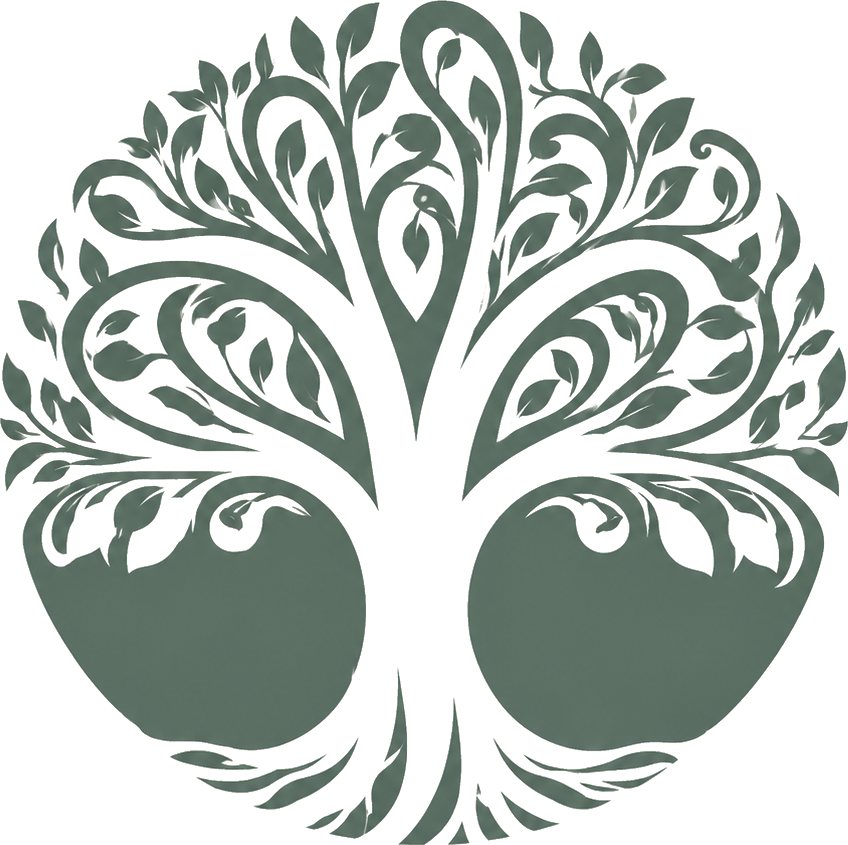
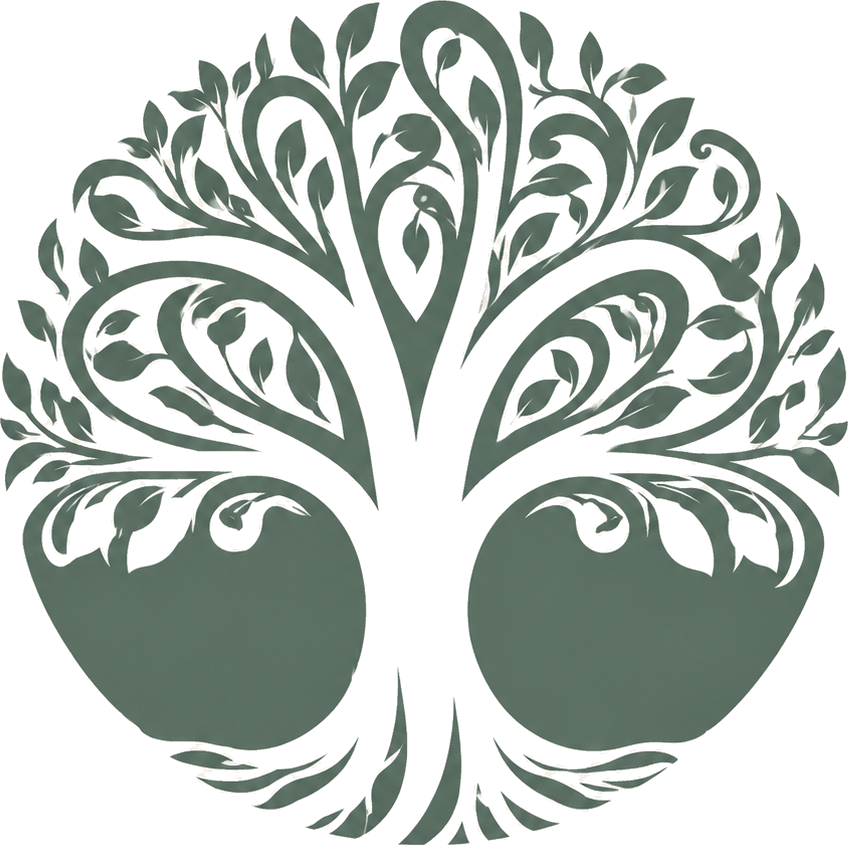
fix(hero): achica el árbol y mejora nitidez
- max-width: 380px → 300px para que no compita con el h1 del hero
- Reprocesa el PNG con threshold de fondo más estricto y sin
  feathering: solo elimina los píxeles cream puros, conservando los
  bordes anti-aliased originales del árbol. Resultado: imagen más
  nítida con todos los detalles de hojas intactos

diff --git a/index.html b/index.html
@@ -90,7 +90,7 @@ section{padding:140px 0;position:relative}
 .hero .body{font-size:16px;color:var(--graphite-500);max-width:480px;margin-top:24px;line-height:1.65}
 .hero-actions{display:flex;gap:14px;margin-top:48px;flex-wrap:wrap}
 .hero-meta{padding-bottom:8px}
-.hero-mark{margin:0 auto 32px;max-width:380px;width:100%;display:block;animation:hero-mark-breathe 11s ease-in-out infinite;transform-origin:50% 60%}
+.hero-mark{margin:0 auto 32px;max-width:300px;width:100%;display:block;animation:hero-mark-breathe 11s ease-in-out infinite;transform-origin:50% 60%}
 .hero-mark img{width:100%;height:auto;display:block;mix-blend-mode:multiply}
 @keyframes hero-mark-breathe{0%,100%{transform:scale(1)}50%{transform:scale(1.025)}}
 @media (prefers-reduced-motion: reduce){.hero-mark{animation:none}}